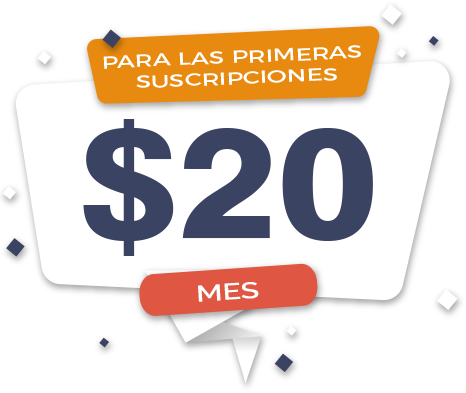
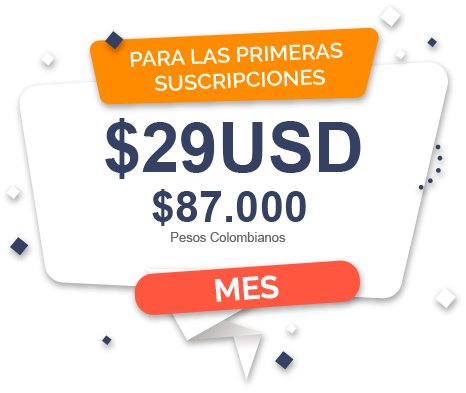
boton payu

diff --git a/resources/views/index.blade.php b/resources/views/index.blade.php
@@ -448,6 +448,29 @@
                   </div>
                 </div>
             </div><!-- /.container -->
+<!-- Boton PayU -->
+            <form method="post" action="https://gateway.payulatam.com/ppp-web-gateway/pb.zul" accept-charset="UTF-8">
+  <input type="image" border="0" alt="" src="http://agenciawebbogota.com/social/boton-pagar.png" onClick="this.form.urlOrigen.value = window.location.href;"/>
+  <input name="buttonId" type="hidden" value="iTBmFbx+1Fyy7Pe4hIPsFPE3bIVkltlKm5huATupPoVNFmQFfNDpug=="/>
+  <input name="merchantId" type="hidden" value="644473"/>
+  <input name="accountId" type="hidden" value="646874"/>
+  <input name="description" type="hidden" value="Suscripción mensual MenúsFácil"/>
+  <input name="referenceCode" type="hidden" value="01"/>
+  <input name="amount" type="hidden" value="87000"/>
+  <input name="tax" type="hidden" value="0"/>
+  <input name="taxReturnBase" type="hidden" value="0"/>
+  <input name="currency" type="hidden" value="COP"/>
+  <input name="lng" type="hidden" value="es"/>
+  <input name="approvedResponseUrl" type="hidden" value="http://menusfacil.com/confirmacion/suscripcion-exitosa"/>
+  <input name="declinedResponseUrl" type="hidden" value="http://menusfacil.com/confirmacion/fallo"/>
+  <input name="pendingResponseUrl" type="hidden" value="http://menusfacil.com/confirmacion/suscripcion-pendiente"/>
+  <input name="displayShippingInformation" type="hidden" value="NO"/>
+  <input name="sourceUrl" id="urlOrigen" value="" type="hidden"/>
+  <input name="buttonType" value="SIMPLE" type="hidden"/>
[1 lines of base64/hex data omitted]
+</form>
+<!-- Fin Boton -->
+
         </section>
 
         <footer class="footer footer-four">
